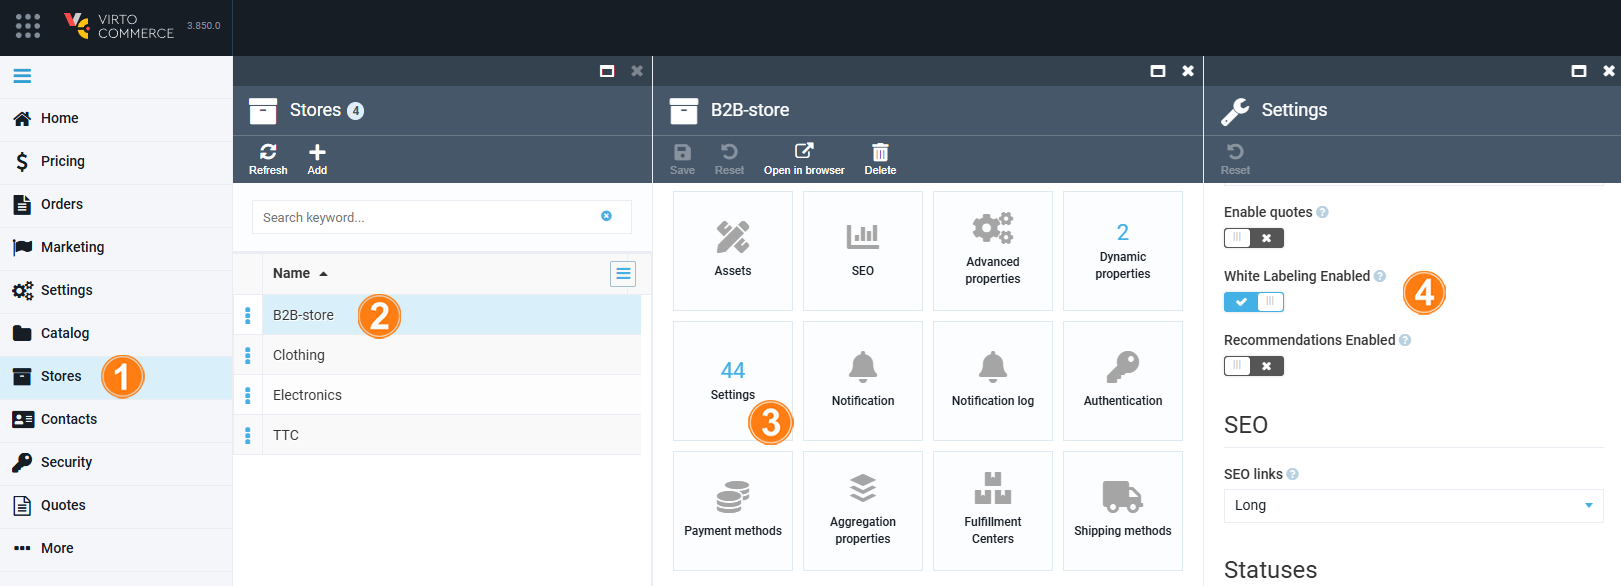
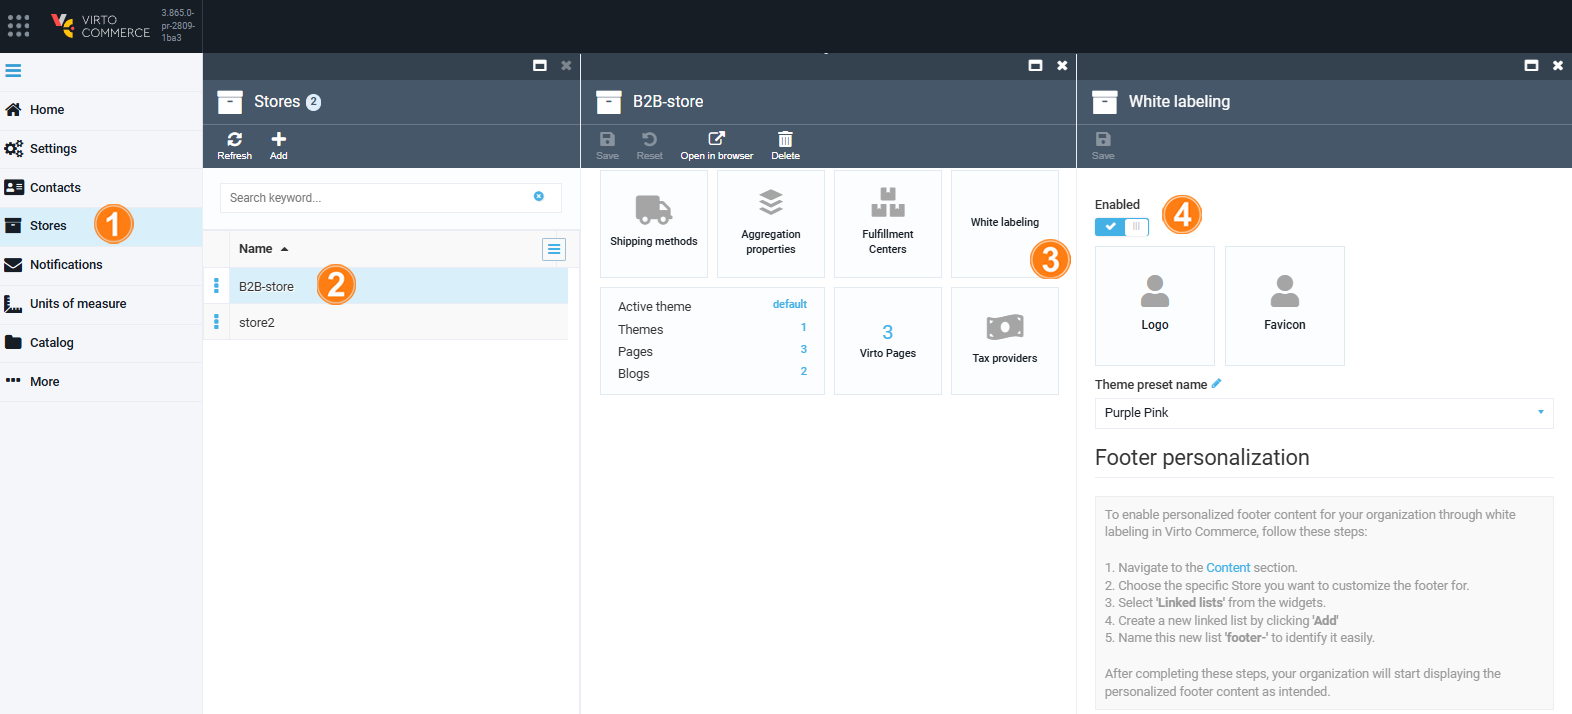
Edited Store branding article

diff --git a/platform/developer-guide/docs/Getting-Started/Installation-Guide/store-branding.md b/platform/developer-guide/docs/Getting-Started/Installation-Guide/store-branding.md
@@ -4,76 +4,44 @@ Once your store is created, you can customize its branding by:
 
 * Replacing the default Virto Commerce logo and favicon with your own.
 * Updating the native theme colors to reflect your corporate brand.
-* Changing the default Virto Commerce sliders to your company sliders.
-* Adding a custom background (banner) to enhance the store’s visual appeal.
 
-To brand your store, complete the following steps:
+## Prepare logos and favicon
 
-1. [Upload your logos and background.](store-branding.md#upload-logos-and-homepage-background)
-1. [Specify the paths to the images.](store-branding.md#specify-paths-to-images)
-1. [Upload favicons.](store-branding.md#upload-favicons)
-1. [Add theme presets.](store-branding.md#add-presets)
-1. [Reboot your environment to apply the changes.](store-branding.md#reboot-environment)
+For test purposes, you can use any PNG, GIF, or SVG image (for logo) or PNG, JPEG, or WEBP image (for favicon).   
 
-Prepare the following images in advance:
+For finalized branding, you can prepare logo and favicon images according to the requirements in our [figma project](https://www.figma.com/design/tSeAtWkt4DOj0khZ8Fi8wY/%F0%9F%90%B3-OCEAN-BLUE-%E2%80%A2-Storefront-screens?node-id=4142-36381&t=hwbdIQc7jxZ4YJPZ-4) or use it as a sample as follows:
 
-![Images in advance](media/images-explanation.png)
+1. Clone the project.
+1. Replace logos and favicon with your own images.
+1. Use the preview feature to evaluate the result.
+1. Export the final version of your images.
 
-## Upload logos and homepage background
+Now, you can use the images to replace default logos and favicon.
 
-!!! note
-    Acceptable image formats are SVG and PNG. 
+## Enable white labeling
 
-To add your company's branded images:
+To enable white labeling:
 
-1. Click **Content** in the main menu.
-1. In the next blade, select your store, then click **Themes**.
-1. Choose **default** in the next blade.
-1. Go to **static** → **images**.
-1. In the **images** blade, click **Add** in the toolbar to create a folder for your company images, enter a folder name, and click **Create**:
+1. Click **Stores** in the main menu.
+1. In the next blade, select the desired store.
+1. In the next blade, click on the **White labeling** widget.
+1. In the next blade, turn the white labeling option to on.
 
-    ![Create folder](media/create-images-folder.png)
+![Enabling white labeling Stores](media/enabling-via-stores.png)
 
-1. Select the newly created folder. For better organization, create two subfolders: **home** for banners and sliders, and **logos** for logos:
+White labeling has been enabled.
 
-    ![Subfolders](media/home-logos-folders.png)
+## Customize logo and favicon
 
-1. In the **Logos** folder, click **Upload** to upload your company logos.
-1. Copy and save the links to your logos to use in the next step:
+To replace default logos and favicons with your own images:
 
-    ![Copy link](media/copy-link-to-favicon.png)
+1. In the **White Labeling** blade, click on the **Logo** widget to upload your company's logo.
+1. Click on the **Favicon** widget to upload your favicon.
+1. Click **Save** in the toolbar, then click **Save** in the previous blade.
 
-1. Similarly, upload background and sliders to the **home** folder. Copy and save the links to your slider and banner to use in the next step.
+Your changes have been applied.
 
-Your branded images are now uploaded.
-
-
-## Specify paths to images
-
-To specify the paths for the uploaded images:
-
-1. Go to **Content** → **Your store** → **Theme** → **default** → **config** → **settings_data.json**.
-1. In the settings file, add the links to your logo and homepage background from the previous step:
-
-    ![Add data to settings](media/add-data-to-settings.png)
-
-1. Click **Save** in the toolbar to apply the changes.
-
-The paths to your images have been saved.
-
-## Upload favicons
-
-1. Go to **Content** → **Your store** → **Theme** → **default** → **static** → **icons**.
-1. In the **icons** blade, click **Add** to create a folder for your company icons, name the folder, and click **Create**.
-1. Select the new folder, and click **Upload** to add your company icons/favicons.
-1. Copy the favicon link and paste it into **Content** → **Your store** → **Theme** → **default** → **config** → **settings_data.json** as you did before with the logos and the background. 
-1. Paste the favicon link into **Content** → **Your store** → **Theme** → **default** → **static** → **manifest.json** and specify the favicon size.
-
-    ![Manifest](media/add-favicons-to-manifest.png)
-
-1. Click **Save** in the toolbar to confirm your changes.
-
-Your favicons are now set up for use in your store.
+![Before and after white labeling](media/before-after.png)
 
 ## Add presets
 
@@ -92,38 +60,17 @@ To configure a custom color scheme:
         You can [create your own color scheme using ChatGPT](../../../../user-guide/content/managing-themes#create-theme-colors-via-chatgpt).
 
 1. Click **Create** to add the color scheme to the list.
-1. Copy the filename of your color scheme and paste it into the config file to set it as the default:
+1. Copy the filename of your color scheme.
+1. Go to **Stores** --> Your store --> **White labeling**.
+1. In the **White labeling** blade, click ![Pencil](media/pencil.png){: width="25"} next to the **Theme preset name**.
+1. In the next blade, click **Add** in the toolbar.
+1. Paste the filename to the new field and click ![Floppy](media/floppy.png){: width="25"} to save the changes.
+1. Click **Save** in the toolbar.
+1. In the previous blade, select the newly added theme from the dropdown list. 
+1. Click **Save** in the toolbar. 
 
-    ![Paste link to scheme](media/add-scheme-name-to-config.png)
+Your new color scheme has been applied.
 
-1. Click **Save** in the toolbar to save the changes. 
-
-Your new color scheme has been added.
-
-
-
-## Reboot environment
-
-!!! tip
-    If you need assistance at this or any other step, feel free to [contact our support](https://help.virtocommerce.com/support/home).
-
-To apply all branding modifications, reboot your environment:
-
-1. In the Virto Cloud Portal, click **Environments** in the main menu.
-1. Select the environment to be branded.
-1. In the next blade, click on the **Applications** widget.
-1. In the next blade, click ![Paper sheet](media/paper-sheet.png){: width="20"} next to **Platform**.
-1. Specify the number of reboot attempts:
-
-    ![Reboot attempts](media/reboot-attempts.png)
-
-1. Click **Save** in the current blade, and then again in the previous blade.
-
-    !!! note
-        If the changes are not applied after the first reboot, change the number of reboot attempts and save the changes again. You may need multiple reboots for your modifications to take effect.
-
-1. In the **Environments** blade, click **Refresh**.
-
-Wait for the environment to update: The **Progressing** status changes to **Synced**. Your store's branding changes will now be applied:
+Your store's branding changes have been applied:
 
 ![Branded store](media/branded-shop.png)

diff --git a/platform/user-guide/docs/white-labeling/customizing-brand-elements.md b/platform/user-guide/docs/white-labeling/customizing-brand-elements.md
@@ -3,7 +3,7 @@
 To start customizing brand elements:
 
 1. [Enable white labeling feature via the Stores](customizing-brand-elements.md#enable-white-labeling-via-stores) or [the Contacts module.](customizing-brand-elements.md#enable-white-labeling-via-contacts)
-1. [Customize logo and favicon via the Stores](customizing-brand-elements.md#customize-logo-and-favicon-via-stores) or [the Contacts module.](customizing-brand-elements.md#customize-logo-and-favicon-via-contacts)
+1. [Customize logo and favicon.](customizing-brand-elements.md#customize-logo-and-favicon)
 1. [Customize footer.](customizing-brand-elements.md#customize-footer)
 
 ## Enable white labeling via Stores
@@ -12,12 +12,12 @@ To enable white labeling via the **Stores** module:
 
 1. Click **Stores** in the main menu.
 1. In the next blade, select the desired store.
-1. In the next blade, click on the **Settings** widget.
-1. In the **Settings** blade, enable white labeling.
+1. In the next blade, click on the **White labeling** widget.
+1. In the next blade, turn the white labeling option to on.
 
-![Enabling white lableing via Stores](media/enabling-via-stores.png)
+![Enabling white labeling via Stores](media/enabling-via-stores.png)
 
-You can start using white labeling.
+White labeling has been enabled.
 
 ## Enable white labeling via Contacts
 
@@ -26,44 +26,50 @@ To enable white labeling via the **Contacts** module:
 1. Click **Contacts** in the main menu.
 1. In the next blade, click on the three dots to the left of the desired company.
 1. In the next blade, click on the **White labeling** widget.
-1. In the **White Labeling** blade, enable white labeling.
+1. In the **White Labeling** blade, turn the white labeling option to on.
 
 ![Enabling white labeling via Contacts](media/enabling-via-contacts.png)
 
 White labeling has been enabled.
 
-## Customize logo and favicon via Contacts
+## Customize logo and favicon
 
-To start using white labeling:
+To add own logos and favicon:
 
-1. Complete steps 1-4 from the instruction [above](customizing-brand-elements.md#customize-logo-and-favicon-via-contacts).
 1. In the **White Labeling** blade, click on the **Logo** widget to upload your company's logo.
 1. Click on the **Favicon** widget to upload your favicon.
-1. Click **Save** in the toolbar to save the changes.
+1. Click **Save** in the toolbar, then click **Save** in the previous blade.
 
 Your changes have been applied.
 
 ![Before and after white labeling](media/before-after.png)
 
-## Customize logo and favicon via Stores
-
-To start using white labeling:
-
-1. Complete steps 1-2 from the instruction [above](customizing-brand-elements.md#customize-logo-and-favicon-via-stores).
-1. In the next blade, click on the **White labeling** widget.
-1. In the **White labeling** blade, click on the **Logo** widget to upload your company's logo.
-1. Click on the **Favicon** widget to upload your favicon.
-1. Click **Save** in the toolbar to save the changes.
-
-Your changes have been applied.
-
 ## Customize footer
 
-To enable personalized footer content for your organization by white labeling, follow these steps:
+Let's create the following footer:
 
-1. Click **Content** in the main menu.
-1. Select a store for which you would like to customize the footer and click on the **Link Lists** widget.
-1. [Create new link list](../content/managing-linklists.md).
-1. Give your new list a descriptive name.
+![Footer example](media/footer-example.png)
 
-Your organization page starts displaying personalized footer content as intended.
+1. Go to **Content** --> Your store --> **Link lists**.
+1. In the **Link lists** blade, click **Add** in the toolbar.
+1. To create root categories, fill in the fields as follows:
+
+    ![Footer links](media/footer-links.png)
+
+    !!! note
+        Name your footer link list **footer-links** so the Platform recognizes it as a part of the footer structure.
+
+1. Click **Create**. The current result in the Frontend Application is as follows:
+
+    ![Footer result](media/footer-example1.png)
+
+1. Now let's add subcategories to the footer root categories. In the **Link lists** blade, click **Add** in the toolbar.
+1. For the **My account** category, fill in the fields as follows:
+
+    ![Root categories](media/footer-subcategories.png)
+
+1. Click **Create**.
+
+Continue adding subcategories to the root categories according to the example above.
+
+The footer appears in the Frontend Application.
